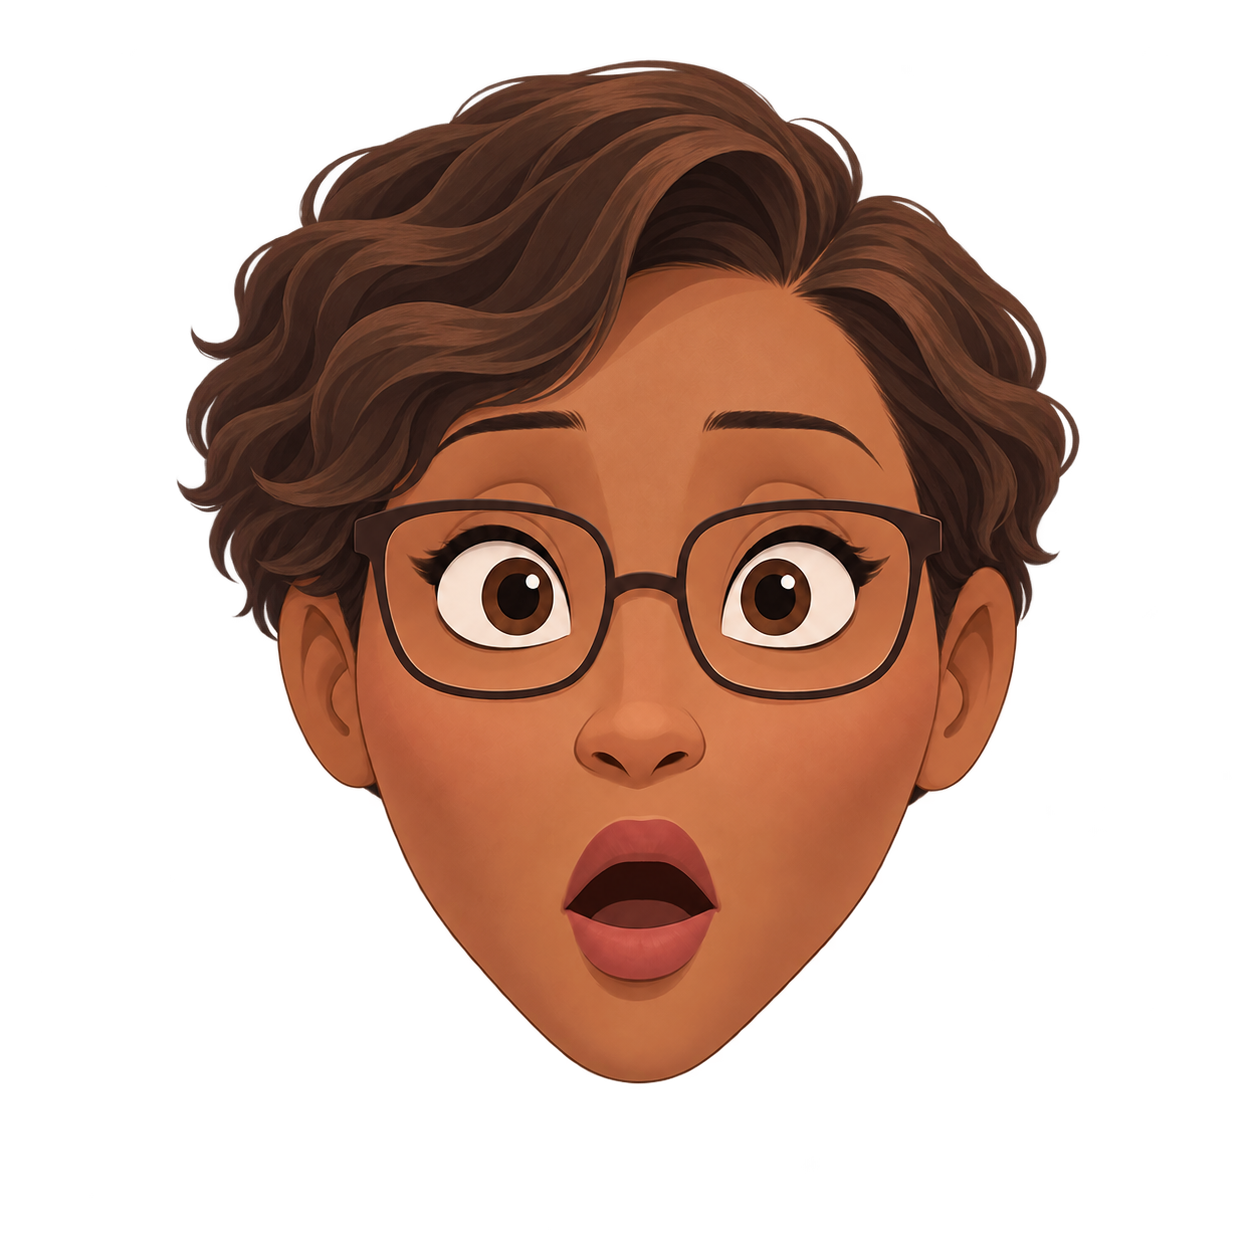
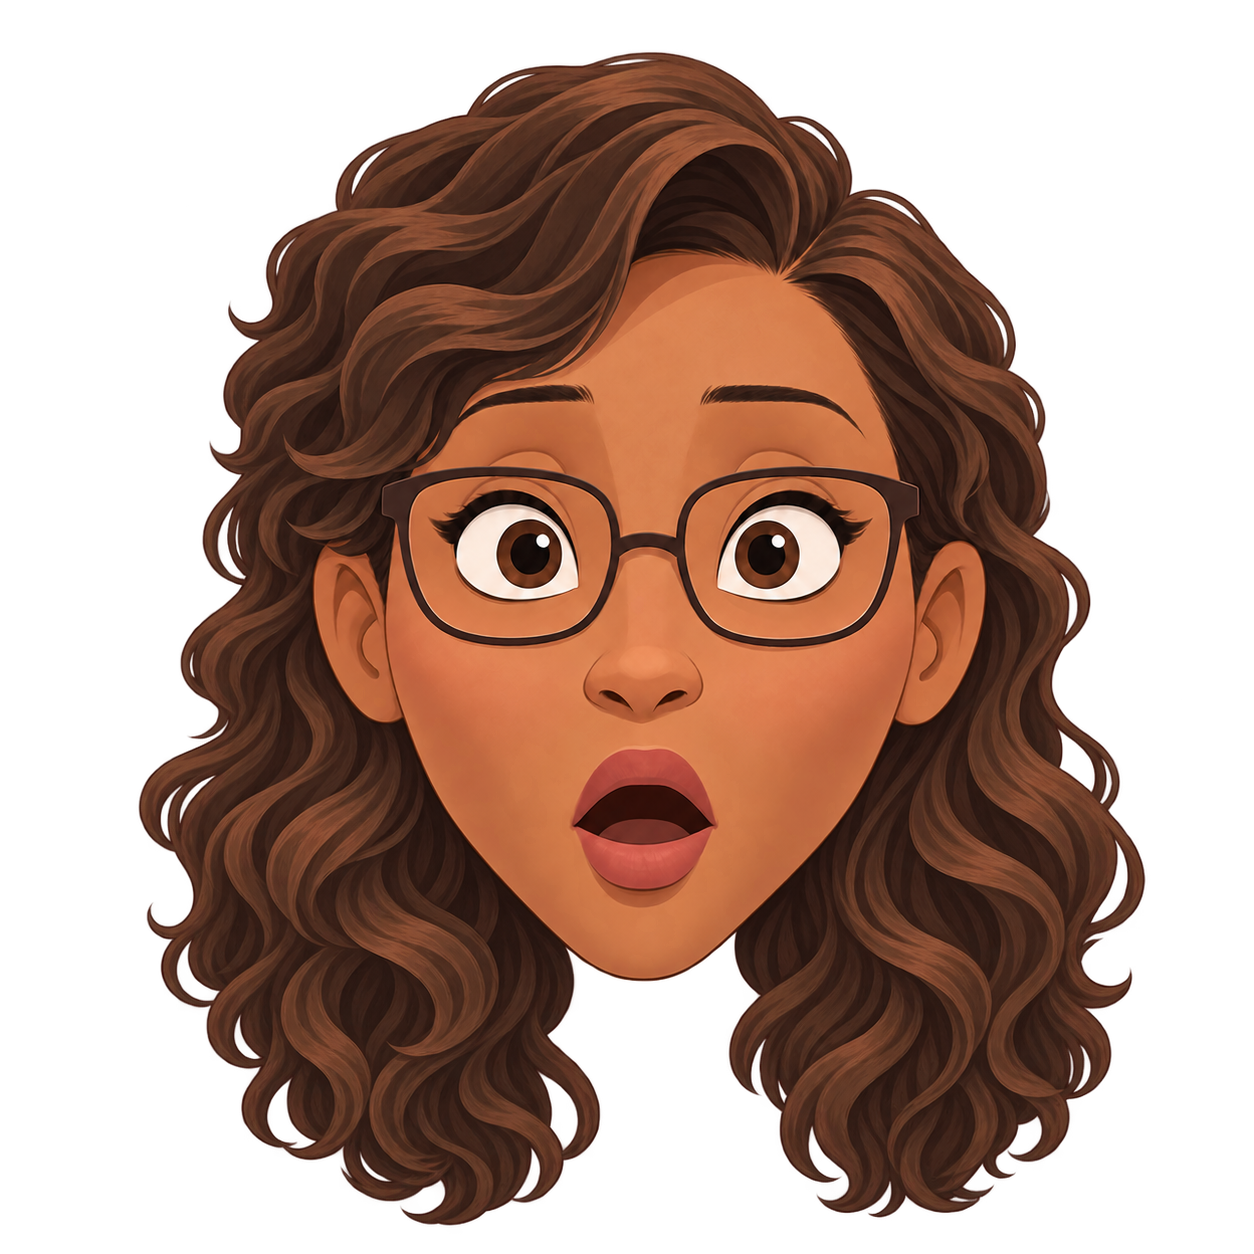
women with short hair improved

diff --git a/docs/query-whom/service-worker.js b/docs/query-whom/service-worker.js
@@ -1,6 +1,6 @@
 /* Cache only this game's packaged resources. Updates activate deliberately from My games. */
 const PREFIX = 'query-whom-';
-const cacheName = PREFIX + '65b801261bbda1202e2b4ff8';
+const cacheName = PREFIX + '4d94b4ca6c0a1ef8e8554070';
 const base = new URL('./', self.location.href);
 async function config() {
   const response = await fetch(new URL('assets/precache.json', base), { cache: 'no-cache' });

diff --git a/docs/query-whom/js/protocol.js b/docs/query-whom/js/protocol.js
@@ -1,6 +1,6 @@
 export const ALPHABET = '23456789ABCDEFGHJKLMNPQRSTUVWXYZ';
 export const PROTOCOL_VERSION = 1;
-export const DECK_VERSION = 3;
+export const DECK_VERSION = 4;
 const digest = async (bytes) => new Uint8Array(await crypto.subtle.digest('SHA-256', bytes));
 
 export function base32Encode(bytes) {

diff --git a/docs/query-whom/README.md b/docs/query-whom/README.md
@@ -46,7 +46,7 @@ No npm package is loaded by the shipped game at runtime.
 `ontology/query-whom.ttl` extends CCO and the shared Game Ontology.
 `assets/catalog-v1.ttl` imports that vocabulary and the pinned CCO merged
 ontology. Its 40 character instances are generated from the supplied CSV.
-The current deck is version 3; the existing `catalog-v1` filenames remain stable
+The current deck is version 4; the existing `catalog-v1` filenames remain stable
 asset paths, while the ontology version, manifest and shared codes identify the
 revised deck. Version 2 revises six portraits, gives Noah red hair and Joshua
 brown hair, and opens Ella's eyes with a forward gaze. Joshua is Person 7;
@@ -58,6 +58,11 @@ Theodore curly) and moves freckles from Joshua to Noah. All other traits are
 preserved. The swaps retain 9 straight-haired and 10 curly-haired characters,
 and 6 characters with freckles. Exact edit prompts and before/after counts
 are recorded in `portraits/portrait-revisions-v3.json`.
+Version 4 removes Faith's hat, gives her gently wavy side-parted hair with a
+clip and brown eyes, and gives Sophia long hair while preserving her identity.
+Olivia has a long French braid with her existing bow; Elizabeth has a long
+curly ponytail, glasses and no hat. Exact edits are recorded in
+`portraits/portrait-revisions-v4.json`.
 `ontology/oliver-example.md` is a complete Mermaid instance graph generated
 from Oliver’s actual triples, including explicit type edges.
 
